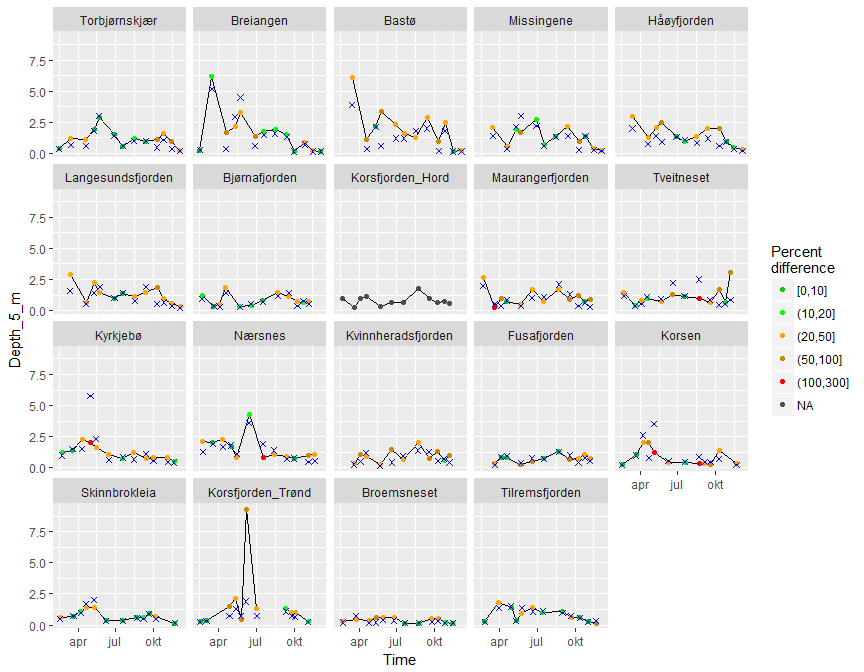
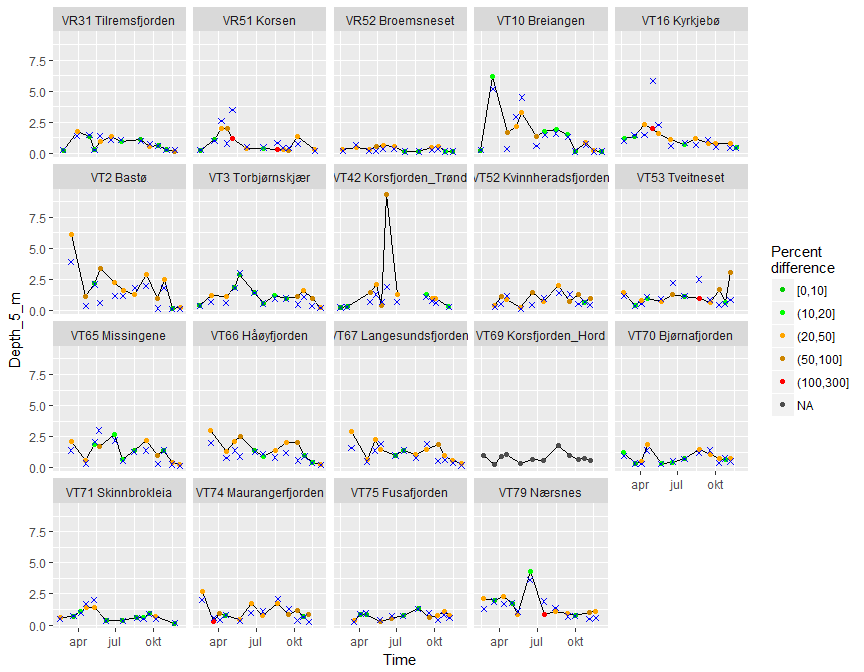
Adding station code to station name in graphs (StationCodeName)

diff --git a/05_ChlA_difference_0m_vs_5m.md b/05_ChlA_difference_0m_vs_5m.md
@@ -13,7 +13,7 @@ library(tidyverse)
 ```
 
 ```
-## -- Attaching packages ------------------------------------------------------------------------ tidyverse 1.2.1 --
+## -- Attaching packages -------------------------------------------------------- tidyverse 1.2.1 --
 ```
 
 ```
@@ -24,7 +24,7 @@ library(tidyverse)
 ```
 
 ```
-## -- Conflicts --------------------------------------------------------------------------- tidyverse_conflicts() --
+## -- Conflicts ----------------------------------------------------------- tidyverse_conflicts() --
 ## x dplyr::filter() masks stats::filter()
 ## x dplyr::lag()    masks stats::lag()
 ```
@@ -48,6 +48,7 @@ df_chla2 <- df_chla %>%
   mutate(Abs_difference_00m_vs_05m = Depth_00_m - Depth_05_m,
          Perc_difference_00m_vs_05m = 100*(Depth_00_m - Depth_05_m)/Depth_05_m,
          StationName = factor(StationName, levels = df_stations$StationName))
+df_chla2$StationCodeName  <- with(df_chla2, paste(StationCode, StationName))
 # Checking (line 1 should be 2x line 2)
 df_chla %>% filter(Depth <= 5) %>% nrow()
 ```

diff --git a/04_ChlA_difference_10m_vs_5m.md b/04_ChlA_difference_10m_vs_5m.md
@@ -49,6 +49,8 @@ df_chla2 <- df_chla %>%
   mutate(Abs_difference_10m_vs_5m = Depth_10_m - Depth_5_m,
          Perc_difference_10m_vs_5m = 100*(Depth_10_m - Depth_5_m)/Depth_5_m,
          StationName = factor(StationName, levels = df_stations$StationName))
+df_chla2$StationCodeName  <- with(df_chla2, paste(StationCode, StationName))
+
 # Checking (line 1 should be 2x line 2)
 df_chla %>% filter(Depth <= 5) %>% nrow()
 ```
